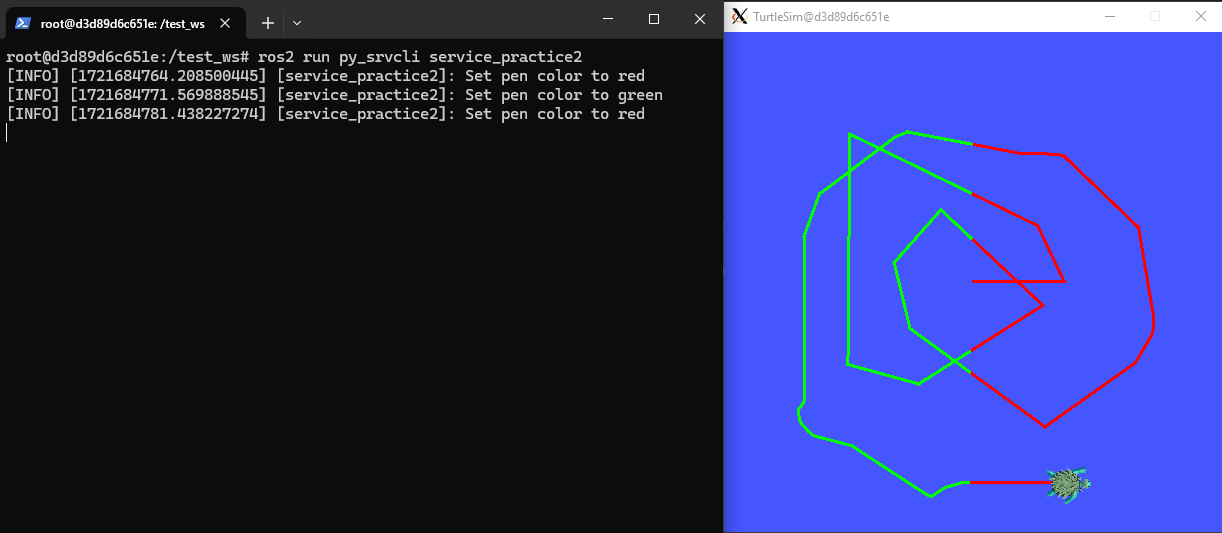
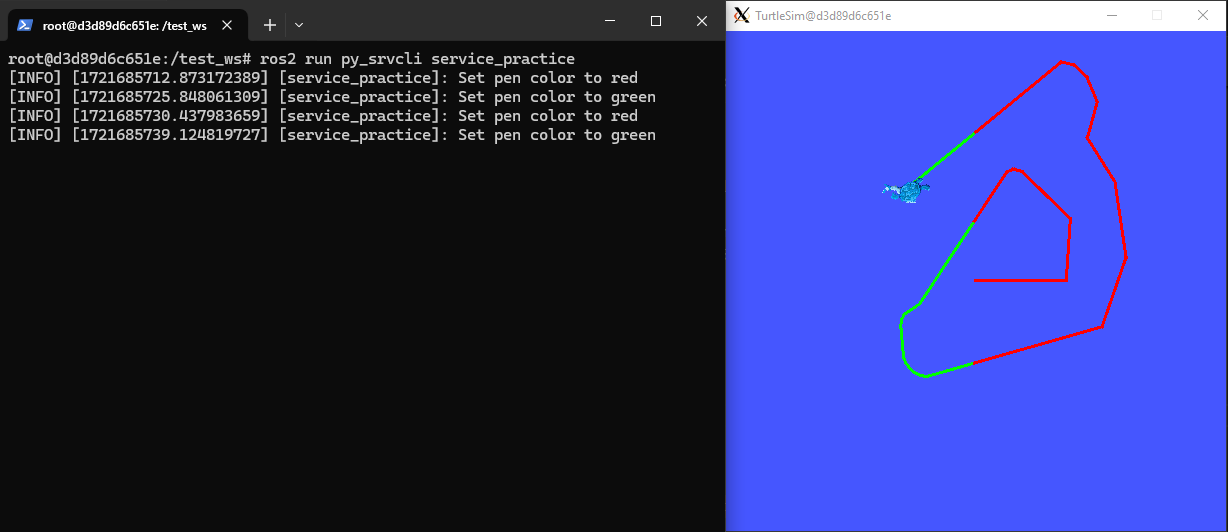
Updated correct pictures for the practice

diff --git a/docs/source/Writing service and client. Python.rst b/docs/source/Writing service and client. Python.rst
@@ -499,8 +499,8 @@ Have only the ``trutlesim_node`` node running. Create a new node called ``servic
 
 See image below for an example of the results:
 
-.. image:: images/servicePractice.png
-   :alt: Service practice example.
+.. image:: images/servicePractice_b.png
+   :alt: Service practice example of the optional part.
 
 A must-see for completing the practice
 ~~~~~~~~~~~~~~~~~~~~~
